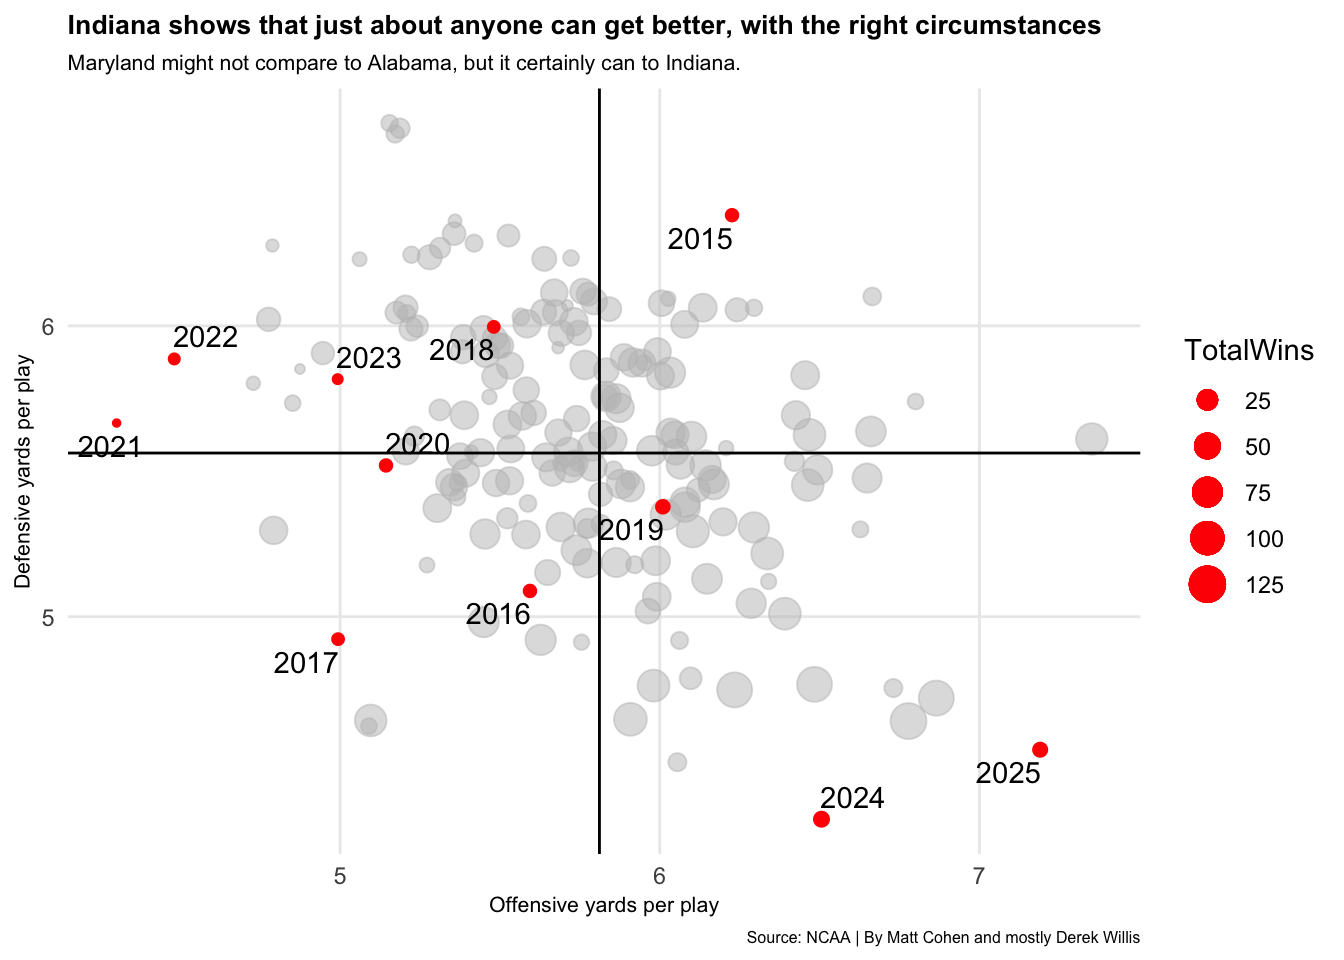
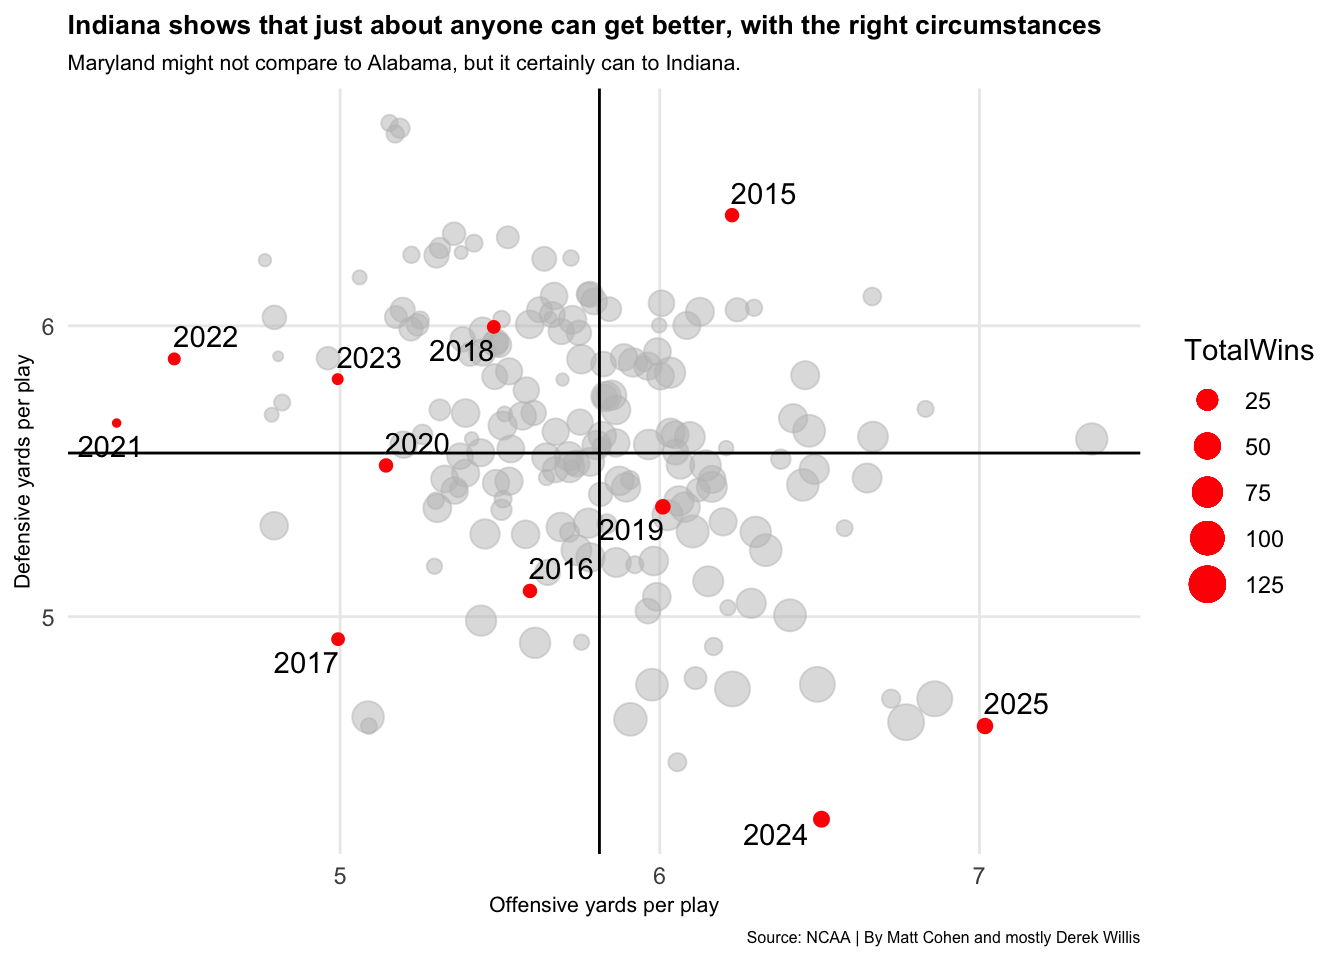
updates

diff --git a/docs/posts/terps_ypp/index.html b/docs/posts/terps_ypp/index.html
@@ -7,7 +7,7 @@
 <meta name="viewport" content="width=device-width, initial-scale=1.0, user-scalable=yes">
 
 <meta name="author" content="Matt Cohen">
-<meta name="dcterms.date" content="2025-10-28">
+<meta name="dcterms.date" content="2025-11-05">
 
 <title>Maryland’s football performance has been squarely medicore. And it explains a lot. – Cohen nerds out on sports</title>
 <style>
@@ -168,7 +168,7 @@ pre > code.sourceCode > span > a:first-child::before { text-decoration: underlin
       <div>
       <div class="quarto-title-meta-heading">Published</div>
       <div class="quarto-title-meta-contents">
-        <p class="date">October 28, 2025</p>
+        <p class="date">November 5, 2025</p>
       </div>
     </div>
     
@@ -216,11 +216,11 @@ pre > code.sourceCode > span > a:first-child::before { text-decoration: underlin
 <div class="sourceCode cell-code" id="cb4"><pre class="sourceCode r code-with-copy"><code class="sourceCode r"><span id="cb4-1"><a href="#cb4-1" aria-hidden="true" tabindex="-1"></a>cfblogs <span class="ot">&lt;-</span> <span class="fu">read_csv</span>(<span class="st">"https://thescoop.org/sports-data-files/footballlogs1525.csv"</span>)</span></code><button title="Copy to Clipboard" class="code-copy-button"><i class="bi"></i></button></pre></div>
 </details>
 <div class="cell-output cell-output-stderr">
-<pre><code>Rows: 17240 Columns: 80
+<pre><code>Rows: 17343 Columns: 79
 ── Column specification ────────────────────────────────────────────────────────
 Delimiter: ","
 chr  (11): Location, Opponent, Result, OT, Bowl.x, TeamURL, Outcome, Bowl.y,...
-dbl  (65): Rk, Gtm, Points, PointsOpp, PassCmp, PassAtt, PassPct, PassYds, P...
+dbl  (64): Rk, Gtm, Points, PointsOpp, PassCmp, PassAtt, PassPct, PassYds, P...
 lgl   (3): Score, TeamScore, OpponentScore
 date  (1): Date
 
@@ -285,7 +285,7 @@ date  (1): Date
 <pre><code># A tibble: 1 × 2
   offense defense
     &lt;dbl&gt;   &lt;dbl&gt;
-1    5.77    5.62</code></pre>
+1    5.76    5.62</code></pre>
 </div>
 <details class="code-fold">
 <summary>Code</summary>
@@ -840,104 +840,6 @@ using the `.groups` argument.</code></pre>
 <p>The above chart shows Indiana, a usually annually reliable doormat nationally. And for the most part during the time span here, Indiana was terrible! It consistently showed to be worse than medicore. And the team’s overall record followed suit.</p>
 <p>That changed with the right coaching staff putting together the right roster. With Curt Cignetti, Indiana has vaulted itself with two statistically elite seasons in 2024 and thus far in 2025, very similar (if not better) outputs than Alabama. It’s why Indiana is ranked No.&nbsp;2 in the country.</p>
 <p>So if the program with the most losses in the history of the sport can do it, so can Maryland. Someone might just have to be beg Kevin Plank to write a bigger check.</p>
-<div class="cell">
-<details class="code-fold">
-<summary>Code</summary>
-<div class="sourceCode cell-code" id="cb20"><pre class="sourceCode r code-with-copy"><code class="sourceCode r"><span id="cb20-1"><a href="#cb20-1" aria-hidden="true" tabindex="-1"></a>jmu_2022 <span class="ot">&lt;-</span> byseasonypp <span class="sc">|&gt;</span> <span class="fu">filter</span>(Team <span class="sc">==</span> <span class="st">"James Madison"</span>, season <span class="sc">==</span> <span class="dv">2022</span>)</span>
-<span id="cb20-2"><a href="#cb20-2" aria-hidden="true" tabindex="-1"></a>jmu_2023 <span class="ot">&lt;-</span> byseasonypp <span class="sc">|&gt;</span> <span class="fu">filter</span>(Team <span class="sc">==</span> <span class="st">"James Madison"</span>, season <span class="sc">==</span> <span class="dv">2023</span>)</span>
-<span id="cb20-3"><a href="#cb20-3" aria-hidden="true" tabindex="-1"></a>jmu_2024 <span class="ot">&lt;-</span> byseasonypp <span class="sc">|&gt;</span> <span class="fu">filter</span>(Team <span class="sc">==</span> <span class="st">"James Madison"</span>, season <span class="sc">==</span> <span class="dv">2024</span>)</span>
-<span id="cb20-4"><a href="#cb20-4" aria-hidden="true" tabindex="-1"></a>jmu_2025 <span class="ot">&lt;-</span> byseasonypp <span class="sc">|&gt;</span> <span class="fu">filter</span>(Team <span class="sc">==</span> <span class="st">"James Madison"</span>, season <span class="sc">==</span> <span class="dv">2025</span>)</span>
-<span id="cb20-5"><a href="#cb20-5" aria-hidden="true" tabindex="-1"></a></span>
-<span id="cb20-6"><a href="#cb20-6" aria-hidden="true" tabindex="-1"></a></span>
-<span id="cb20-7"><a href="#cb20-7" aria-hidden="true" tabindex="-1"></a>usf_2015 <span class="ot">&lt;-</span> byseasonypp <span class="sc">|&gt;</span> <span class="fu">filter</span>(Team <span class="sc">==</span> <span class="st">"South Florida"</span>, season <span class="sc">==</span> <span class="dv">2015</span>)</span>
-<span id="cb20-8"><a href="#cb20-8" aria-hidden="true" tabindex="-1"></a>usf_2016 <span class="ot">&lt;-</span> byseasonypp <span class="sc">|&gt;</span> <span class="fu">filter</span>(Team <span class="sc">==</span> <span class="st">"South Florida"</span>, season <span class="sc">==</span> <span class="dv">2016</span>)</span>
-<span id="cb20-9"><a href="#cb20-9" aria-hidden="true" tabindex="-1"></a>usf_2017 <span class="ot">&lt;-</span> byseasonypp <span class="sc">|&gt;</span> <span class="fu">filter</span>(Team <span class="sc">==</span> <span class="st">"South Florida"</span>, season <span class="sc">==</span> <span class="dv">2017</span>)</span>
-<span id="cb20-10"><a href="#cb20-10" aria-hidden="true" tabindex="-1"></a>usf_2018 <span class="ot">&lt;-</span> byseasonypp <span class="sc">|&gt;</span> <span class="fu">filter</span>(Team <span class="sc">==</span> <span class="st">"South Florida"</span>, season <span class="sc">==</span> <span class="dv">2018</span>)</span>
-<span id="cb20-11"><a href="#cb20-11" aria-hidden="true" tabindex="-1"></a>usf_2019 <span class="ot">&lt;-</span> byseasonypp <span class="sc">|&gt;</span> <span class="fu">filter</span>(Team <span class="sc">==</span> <span class="st">"South Florida"</span>, season <span class="sc">==</span> <span class="dv">2019</span>)</span>
-<span id="cb20-12"><a href="#cb20-12" aria-hidden="true" tabindex="-1"></a>usf_2020 <span class="ot">&lt;-</span> byseasonypp <span class="sc">|&gt;</span> <span class="fu">filter</span>(Team <span class="sc">==</span> <span class="st">"South Florida"</span>, season <span class="sc">==</span> <span class="dv">2020</span>)</span>
-<span id="cb20-13"><a href="#cb20-13" aria-hidden="true" tabindex="-1"></a>usf_2021 <span class="ot">&lt;-</span> byseasonypp <span class="sc">|&gt;</span> <span class="fu">filter</span>(Team <span class="sc">==</span> <span class="st">"South Florida"</span>, season <span class="sc">==</span> <span class="dv">2021</span>)</span>
-<span id="cb20-14"><a href="#cb20-14" aria-hidden="true" tabindex="-1"></a>usf_2022 <span class="ot">&lt;-</span> byseasonypp <span class="sc">|&gt;</span> <span class="fu">filter</span>(Team <span class="sc">==</span> <span class="st">"South Florida"</span>, season <span class="sc">==</span> <span class="dv">2022</span>)</span>
-<span id="cb20-15"><a href="#cb20-15" aria-hidden="true" tabindex="-1"></a>usf_2023 <span class="ot">&lt;-</span> byseasonypp <span class="sc">|&gt;</span> <span class="fu">filter</span>(Team <span class="sc">==</span> <span class="st">"South Florida"</span>, season <span class="sc">==</span> <span class="dv">2023</span>)</span>
-<span id="cb20-16"><a href="#cb20-16" aria-hidden="true" tabindex="-1"></a>usf_2024 <span class="ot">&lt;-</span> byseasonypp <span class="sc">|&gt;</span> <span class="fu">filter</span>(Team <span class="sc">==</span> <span class="st">"South Florida"</span>, season <span class="sc">==</span> <span class="dv">2024</span>)</span>
-<span id="cb20-17"><a href="#cb20-17" aria-hidden="true" tabindex="-1"></a>usf_2025 <span class="ot">&lt;-</span> byseasonypp <span class="sc">|&gt;</span> <span class="fu">filter</span>(Team <span class="sc">==</span> <span class="st">"South Florida"</span>, season <span class="sc">==</span> <span class="dv">2025</span>)</span>
-<span id="cb20-18"><a href="#cb20-18" aria-hidden="true" tabindex="-1"></a></span>
-<span id="cb20-19"><a href="#cb20-19" aria-hidden="true" tabindex="-1"></a>sumrall_2022 <span class="ot">&lt;-</span> byseasonypp <span class="sc">|&gt;</span> <span class="fu">filter</span>(Team <span class="sc">==</span> <span class="st">"Troy"</span>, season <span class="sc">==</span> <span class="dv">2022</span>)</span>
-<span id="cb20-20"><a href="#cb20-20" aria-hidden="true" tabindex="-1"></a>sumrall_2023 <span class="ot">&lt;-</span> byseasonypp <span class="sc">|&gt;</span> <span class="fu">filter</span>(Team <span class="sc">==</span> <span class="st">"Troy"</span>, season <span class="sc">==</span> <span class="dv">2023</span>)</span>
-<span id="cb20-21"><a href="#cb20-21" aria-hidden="true" tabindex="-1"></a>sumrall_2024 <span class="ot">&lt;-</span> byseasonypp <span class="sc">|&gt;</span> <span class="fu">filter</span>(Team <span class="sc">==</span> <span class="st">"Tulane"</span>, season <span class="sc">==</span> <span class="dv">2024</span>)</span>
-<span id="cb20-22"><a href="#cb20-22" aria-hidden="true" tabindex="-1"></a>sumrall_2025 <span class="ot">&lt;-</span> byseasonypp <span class="sc">|&gt;</span> <span class="fu">filter</span>(Team <span class="sc">==</span> <span class="st">"Tulane"</span>, season <span class="sc">==</span> <span class="dv">2025</span>)</span>
-<span id="cb20-23"><a href="#cb20-23" aria-hidden="true" tabindex="-1"></a></span>
-<span id="cb20-24"><a href="#cb20-24" aria-hidden="true" tabindex="-1"></a></span>
-<span id="cb20-25"><a href="#cb20-25" aria-hidden="true" tabindex="-1"></a><span class="fu">ggplot</span>() <span class="sc">+</span> </span>
-<span id="cb20-26"><a href="#cb20-26" aria-hidden="true" tabindex="-1"></a>  <span class="fu">geom_point</span>(</span>
-<span id="cb20-27"><a href="#cb20-27" aria-hidden="true" tabindex="-1"></a>    <span class="at">data=</span>ypp, </span>
-<span id="cb20-28"><a href="#cb20-28" aria-hidden="true" tabindex="-1"></a>    <span class="fu">aes</span>(<span class="at">x=</span>OffensiveYPP, <span class="at">y=</span>DefensiveYPP, <span class="at">size=</span>TotalWins), </span>
-<span id="cb20-29"><a href="#cb20-29" aria-hidden="true" tabindex="-1"></a>    <span class="at">color=</span><span class="st">"grey"</span>, </span>
-<span id="cb20-30"><a href="#cb20-30" aria-hidden="true" tabindex="-1"></a>    <span class="at">alpha=</span>.<span class="dv">5</span>) <span class="sc">+</span> </span>
-<span id="cb20-31"><a href="#cb20-31" aria-hidden="true" tabindex="-1"></a>  <span class="fu">geom_point</span>(</span>
-<span id="cb20-32"><a href="#cb20-32" aria-hidden="true" tabindex="-1"></a>    <span class="at">data=</span>usf_2023, </span>
-<span id="cb20-33"><a href="#cb20-33" aria-hidden="true" tabindex="-1"></a>    <span class="fu">aes</span>(<span class="at">x=</span>OffensiveYPP, <span class="at">y=</span>DefensiveYPP, <span class="at">size=</span>TotalWins), </span>
-<span id="cb20-34"><a href="#cb20-34" aria-hidden="true" tabindex="-1"></a>    <span class="at">color=</span><span class="st">"darkgreen"</span>) <span class="sc">+</span></span>
-<span id="cb20-35"><a href="#cb20-35" aria-hidden="true" tabindex="-1"></a>  <span class="fu">geom_point</span>(</span>
-<span id="cb20-36"><a href="#cb20-36" aria-hidden="true" tabindex="-1"></a>    <span class="at">data=</span>usf_2024, </span>
-<span id="cb20-37"><a href="#cb20-37" aria-hidden="true" tabindex="-1"></a>    <span class="fu">aes</span>(<span class="at">x=</span>OffensiveYPP, <span class="at">y=</span>DefensiveYPP, <span class="at">size=</span>TotalWins), </span>
-<span id="cb20-38"><a href="#cb20-38" aria-hidden="true" tabindex="-1"></a>    <span class="at">color=</span><span class="st">"darkgreen"</span>) <span class="sc">+</span></span>
-<span id="cb20-39"><a href="#cb20-39" aria-hidden="true" tabindex="-1"></a>  <span class="fu">geom_point</span>(</span>
-<span id="cb20-40"><a href="#cb20-40" aria-hidden="true" tabindex="-1"></a>    <span class="at">data=</span>usf_2025, </span>
-<span id="cb20-41"><a href="#cb20-41" aria-hidden="true" tabindex="-1"></a>    <span class="fu">aes</span>(<span class="at">x=</span>OffensiveYPP, <span class="at">y=</span>DefensiveYPP, <span class="at">size=</span>TotalWins), </span>
-<span id="cb20-42"><a href="#cb20-42" aria-hidden="true" tabindex="-1"></a>    <span class="at">color=</span><span class="st">"darkgreen"</span>) <span class="sc">+</span></span>
-<span id="cb20-43"><a href="#cb20-43" aria-hidden="true" tabindex="-1"></a>  <span class="fu">geom_point</span>(</span>
-<span id="cb20-44"><a href="#cb20-44" aria-hidden="true" tabindex="-1"></a>    <span class="at">data=</span>jmu_2022, </span>
-<span id="cb20-45"><a href="#cb20-45" aria-hidden="true" tabindex="-1"></a>    <span class="fu">aes</span>(<span class="at">x=</span>OffensiveYPP, <span class="at">y=</span>DefensiveYPP, <span class="at">size=</span>TotalWins), </span>
-<span id="cb20-46"><a href="#cb20-46" aria-hidden="true" tabindex="-1"></a>    <span class="at">color=</span><span class="st">"red"</span>) <span class="sc">+</span></span>
-<span id="cb20-47"><a href="#cb20-47" aria-hidden="true" tabindex="-1"></a>  <span class="fu">geom_point</span>(</span>
-<span id="cb20-48"><a href="#cb20-48" aria-hidden="true" tabindex="-1"></a>    <span class="at">data=</span>jmu_2023, </span>
-<span id="cb20-49"><a href="#cb20-49" aria-hidden="true" tabindex="-1"></a>    <span class="fu">aes</span>(<span class="at">x=</span>OffensiveYPP, <span class="at">y=</span>DefensiveYPP, <span class="at">size=</span>TotalWins), </span>
-<span id="cb20-50"><a href="#cb20-50" aria-hidden="true" tabindex="-1"></a>    <span class="at">color=</span><span class="st">"red"</span>) <span class="sc">+</span></span>
-<span id="cb20-51"><a href="#cb20-51" aria-hidden="true" tabindex="-1"></a>  <span class="fu">geom_point</span>(</span>
-<span id="cb20-52"><a href="#cb20-52" aria-hidden="true" tabindex="-1"></a>    <span class="at">data=</span>jmu_2024, </span>
-<span id="cb20-53"><a href="#cb20-53" aria-hidden="true" tabindex="-1"></a>    <span class="fu">aes</span>(<span class="at">x=</span>OffensiveYPP, <span class="at">y=</span>DefensiveYPP, <span class="at">size=</span>TotalWins), </span>
-<span id="cb20-54"><a href="#cb20-54" aria-hidden="true" tabindex="-1"></a>    <span class="at">color=</span><span class="st">"purple"</span>) <span class="sc">+</span></span>
-<span id="cb20-55"><a href="#cb20-55" aria-hidden="true" tabindex="-1"></a>  <span class="fu">geom_point</span>(</span>
-<span id="cb20-56"><a href="#cb20-56" aria-hidden="true" tabindex="-1"></a>    <span class="at">data=</span>jmu_2025, </span>
-<span id="cb20-57"><a href="#cb20-57" aria-hidden="true" tabindex="-1"></a>    <span class="fu">aes</span>(<span class="at">x=</span>OffensiveYPP, <span class="at">y=</span>DefensiveYPP, <span class="at">size=</span>TotalWins), </span>
-<span id="cb20-58"><a href="#cb20-58" aria-hidden="true" tabindex="-1"></a>    <span class="at">color=</span><span class="st">"purple"</span>) <span class="sc">+</span></span>
-<span id="cb20-59"><a href="#cb20-59" aria-hidden="true" tabindex="-1"></a>  <span class="fu">geom_point</span>(</span>
-<span id="cb20-60"><a href="#cb20-60" aria-hidden="true" tabindex="-1"></a>    <span class="at">data=</span>sumrall_2022, </span>
-<span id="cb20-61"><a href="#cb20-61" aria-hidden="true" tabindex="-1"></a>    <span class="fu">aes</span>(<span class="at">x=</span>OffensiveYPP, <span class="at">y=</span>DefensiveYPP, <span class="at">size=</span>TotalWins), </span>
-<span id="cb20-62"><a href="#cb20-62" aria-hidden="true" tabindex="-1"></a>    <span class="at">color=</span><span class="st">"gold"</span>) <span class="sc">+</span></span>
-<span id="cb20-63"><a href="#cb20-63" aria-hidden="true" tabindex="-1"></a>  <span class="fu">geom_point</span>(</span>
-<span id="cb20-64"><a href="#cb20-64" aria-hidden="true" tabindex="-1"></a>    <span class="at">data=</span>sumrall_2023, </span>
-<span id="cb20-65"><a href="#cb20-65" aria-hidden="true" tabindex="-1"></a>    <span class="fu">aes</span>(<span class="at">x=</span>OffensiveYPP, <span class="at">y=</span>DefensiveYPP, <span class="at">size=</span>TotalWins), </span>
-<span id="cb20-66"><a href="#cb20-66" aria-hidden="true" tabindex="-1"></a>    <span class="at">color=</span><span class="st">"gold"</span>) <span class="sc">+</span></span>
-<span id="cb20-67"><a href="#cb20-67" aria-hidden="true" tabindex="-1"></a>  <span class="fu">geom_point</span>(</span>
-<span id="cb20-68"><a href="#cb20-68" aria-hidden="true" tabindex="-1"></a>    <span class="at">data=</span>sumrall_2024, </span>
-<span id="cb20-69"><a href="#cb20-69" aria-hidden="true" tabindex="-1"></a>    <span class="fu">aes</span>(<span class="at">x=</span>OffensiveYPP, <span class="at">y=</span>DefensiveYPP, <span class="at">size=</span>TotalWins), </span>
-<span id="cb20-70"><a href="#cb20-70" aria-hidden="true" tabindex="-1"></a>    <span class="at">color=</span><span class="st">"gold"</span>) <span class="sc">+</span></span>
-<span id="cb20-71"><a href="#cb20-71" aria-hidden="true" tabindex="-1"></a>  <span class="fu">geom_point</span>(</span>
-<span id="cb20-72"><a href="#cb20-72" aria-hidden="true" tabindex="-1"></a>    <span class="at">data=</span>sumrall_2025, </span>
-<span id="cb20-73"><a href="#cb20-73" aria-hidden="true" tabindex="-1"></a>    <span class="fu">aes</span>(<span class="at">x=</span>OffensiveYPP, <span class="at">y=</span>DefensiveYPP, <span class="at">size=</span>TotalWins), </span>
-<span id="cb20-74"><a href="#cb20-74" aria-hidden="true" tabindex="-1"></a>    <span class="at">color=</span><span class="st">"gold"</span>) <span class="sc">+</span></span>
-<span id="cb20-75"><a href="#cb20-75" aria-hidden="true" tabindex="-1"></a>  <span class="fu">geom_vline</span>(<span class="at">xintercept =</span> <span class="fl">5.811255</span>) <span class="sc">+</span> </span>
-<span id="cb20-76"><a href="#cb20-76" aria-hidden="true" tabindex="-1"></a>  <span class="fu">geom_hline</span>(<span class="at">yintercept =</span> <span class="fl">5.562701</span>) <span class="sc">+</span></span>
-<span id="cb20-77"><a href="#cb20-77" aria-hidden="true" tabindex="-1"></a>  <span class="fu">labs</span>(<span class="at">title=</span><span class="st">"Which Group of 5 coach should Maryland hire?"</span>, <span class="at">subtitle=</span><span class="st">"Dark green = USF with Alex Golesh. Gold = Jon Sumrall teams at Troy or Tulane. Red = Curt Cignetti at JMU. Purple = Bob Chesney at JMU."</span>, <span class="at">caption=</span> <span class="st">"Source: NCAA | By Matt Cohen and mostly Derek Willis"</span>, <span class="at">x =</span> <span class="st">"Offensive yards per play"</span>, <span class="at">y =</span> <span class="st">"Defensive yards per play"</span>)  <span class="sc">+</span> </span>
-<span id="cb20-78"><a href="#cb20-78" aria-hidden="true" tabindex="-1"></a>  <span class="fu">theme_minimal</span>() <span class="sc">+</span> </span>
-<span id="cb20-79"><a href="#cb20-79" aria-hidden="true" tabindex="-1"></a>  <span class="fu">theme</span>(</span>
-<span id="cb20-80"><a href="#cb20-80" aria-hidden="true" tabindex="-1"></a>    <span class="at">plot.title =</span> <span class="fu">element_text</span>(<span class="at">size =</span> <span class="dv">10</span>, <span class="at">face =</span> <span class="st">"bold"</span>),</span>
-<span id="cb20-81"><a href="#cb20-81" aria-hidden="true" tabindex="-1"></a>    <span class="at">axis.title =</span> <span class="fu">element_text</span>(<span class="at">size =</span> <span class="dv">8</span>), </span>
-<span id="cb20-82"><a href="#cb20-82" aria-hidden="true" tabindex="-1"></a>    <span class="at">plot.subtitle =</span> <span class="fu">element_text</span>(<span class="at">size=</span><span class="dv">8</span>), </span>
-<span id="cb20-83"><a href="#cb20-83" aria-hidden="true" tabindex="-1"></a>    <span class="at">plot.caption =</span> <span class="fu">element_text</span>(<span class="at">size=</span><span class="dv">6</span>),</span>
-<span id="cb20-84"><a href="#cb20-84" aria-hidden="true" tabindex="-1"></a>    <span class="at">panel.grid.minor =</span> <span class="fu">element_blank</span>()</span>
-<span id="cb20-85"><a href="#cb20-85" aria-hidden="true" tabindex="-1"></a>    )</span></code><button title="Copy to Clipboard" class="code-copy-button"><i class="bi"></i></button></pre></div>
-</details>
-<div class="cell-output-display">
-<div>
-<figure class="figure">
-<p><img src="index_files/figure-html/unnamed-chunk-9-1.png" class="img-fluid figure-img" width="672"></p>
-</figure>
-</div>
-</div>
-</div>
-<p>```</p>
 
 
 

diff --git a/docs/index.html b/docs/index.html
@@ -256,32 +256,7 @@ Matt Cohen
 </a>
 </div>
 </div>
-<div class="quarto-post image-right" data-index="2" data-listing-date-sort="1761624000000" data-listing-file-modified-sort="1761846079157" data-listing-date-modified-sort="NaN" data-listing-reading-time-sort="7" data-listing-word-count-sort="1265">
-<div class="thumbnail"><a href="./posts/post-oct-28/index.html" class="no-external">
-
-<p class="card-img-top"><img src="posts/post-oct-28/index_files/figure-html/unnamed-chunk-3-1.png"  class="thumbnail-image card-img"/></p>
-
-</a></div>
-<div class="body">
-<h3 class="no-anchor listing-title">
-<a href="./posts/post-oct-28/index.html" class="no-external">Why the Big Ten is bucking a college football rushing trend</a>
-</h3>
-<div class="delink listing-description"><a href="./posts/post-oct-28/index.html" class="no-external">
-College football coaches often predicate their philosophy on offense by establishing the run. The perception, largely, would be that when a team doesn’t run for many yards…
-</a></div>
-</div>
-<div class="metadata">
-<a href="./posts/post-oct-28/index.html" class="no-external">
-<div class="listing-date">
-Oct 28, 2025
-</div>
-<div class="listing-author">
-Matt Cohen
-</div>
-</a>
-</div>
-</div>
-<div class="quarto-post image-right" data-index="3" data-listing-date-sort="1761624000000" data-listing-file-modified-sort="1762455752764" data-listing-date-modified-sort="NaN" data-listing-reading-time-sort="23" data-listing-word-count-sort="4416">
+<div class="quarto-post image-right" data-index="2" data-listing-date-sort="1762318800000" data-listing-file-modified-sort="1763003594551" data-listing-date-modified-sort="NaN" data-listing-reading-time-sort="20" data-listing-word-count-sort="3871">
 <div class="thumbnail"><a href="./posts/terps_ypp/index.html" class="no-external">
 
 <p class="card-img-top"><img src="posts/terps_ypp/index_files/figure-html/unnamed-chunk-5-1.png"  class="thumbnail-image card-img"/></p>
@@ -297,6 +272,31 @@ There are only a small handful of college football programs that have been able 
 </div>
 <div class="metadata">
 <a href="./posts/terps_ypp/index.html" class="no-external">
+<div class="listing-date">
+Nov 5, 2025
+</div>
+<div class="listing-author">
+Matt Cohen
+</div>
+</a>
+</div>
+</div>
+<div class="quarto-post image-right" data-index="3" data-listing-date-sort="1761624000000" data-listing-file-modified-sort="1761846079157" data-listing-date-modified-sort="NaN" data-listing-reading-time-sort="7" data-listing-word-count-sort="1265">
+<div class="thumbnail"><a href="./posts/post-oct-28/index.html" class="no-external">
+
+<p class="card-img-top"><img src="posts/post-oct-28/index_files/figure-html/unnamed-chunk-3-1.png"  class="thumbnail-image card-img"/></p>
+
+</a></div>
+<div class="body">
+<h3 class="no-anchor listing-title">
+<a href="./posts/post-oct-28/index.html" class="no-external">Why the Big Ten is bucking a college football rushing trend</a>
+</h3>
+<div class="delink listing-description"><a href="./posts/post-oct-28/index.html" class="no-external">
+College football coaches often predicate their philosophy on offense by establishing the run. The perception, largely, would be that when a team doesn’t run for many yards…
+</a></div>
+</div>
+<div class="metadata">
+<a href="./posts/post-oct-28/index.html" class="no-external">
 <div class="listing-date">
 Oct 28, 2025
 </div>
